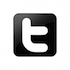
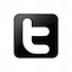
adjusted social media link, about.css, and style.css.

diff --git a/unit6/style.css b/unit6/style.css
@@ -13,7 +13,7 @@ h1 {
 img{
   display: block;
   margin: 0 auto;
-  width: 4em;
+  width: 40em;
 }
 
 nav {
@@ -39,7 +39,23 @@ a {
     text-decoration: none;
 }
 
+address {
+  position: absolute;
+  right: 70%;
+  margin-top: 200%;
+  margin-bottom: 400%;
+}
+
+
 footer {
   	position: fixed;
     bottom: 0;	
 }
+
+#social {
+  position: absolute;
+  right: 50%;
+  margin-top: 200px;
+  margin-bottom: 400px;
+}
+

diff --git a/unit6/about.css b/unit6/about.css
@@ -36,7 +36,7 @@ a {
 address {
   position: absolute;
   right: 70%;
-  margin-top: 200%;
+  margin-top: 15%;
   margin-bottom: 400%;
 }
 
@@ -49,14 +49,14 @@ footer {
 
 #social {
   position: absolute;
-  right: 50%;
+  right: 40%;
   margin-top: 200px;
   margin-bottom: 400px;
 }
 
 #map {
   position: absolute;
-  right: 30%;
+  right: 25%;
   margin-top: 200px;
   margin-bottom: 400px;
 }
